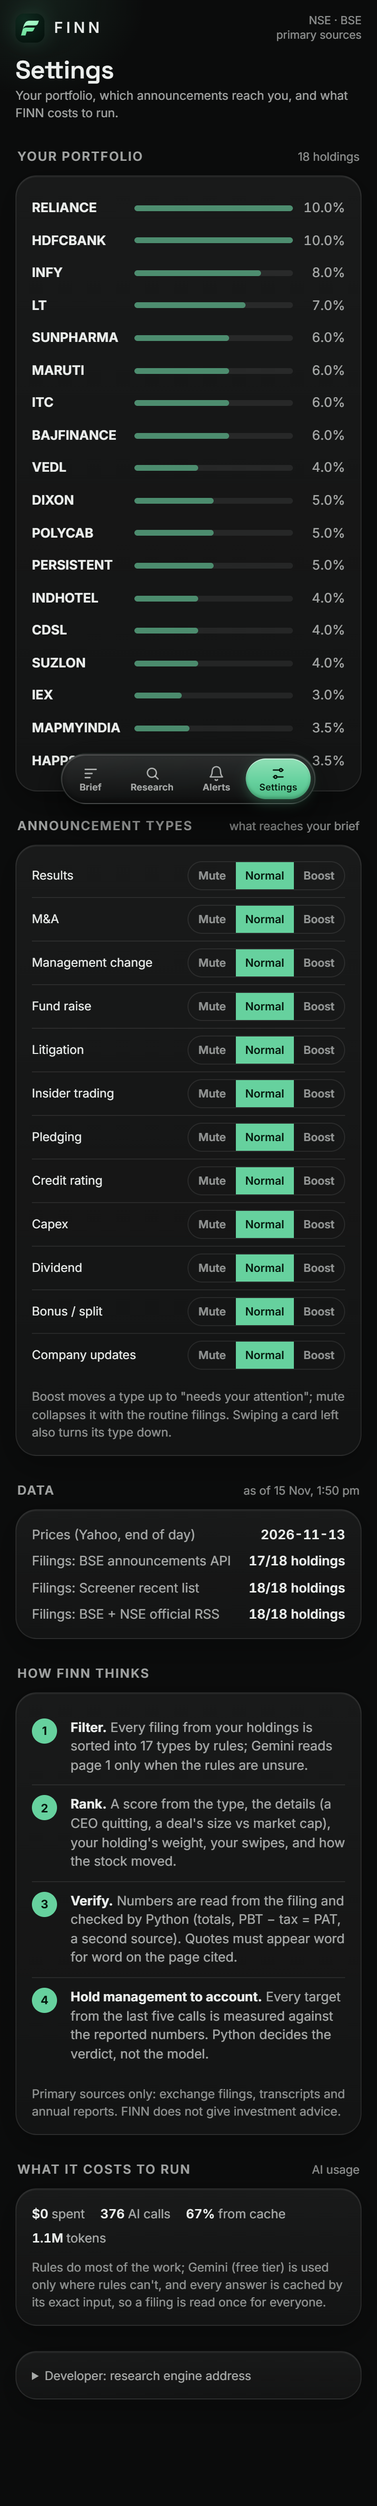
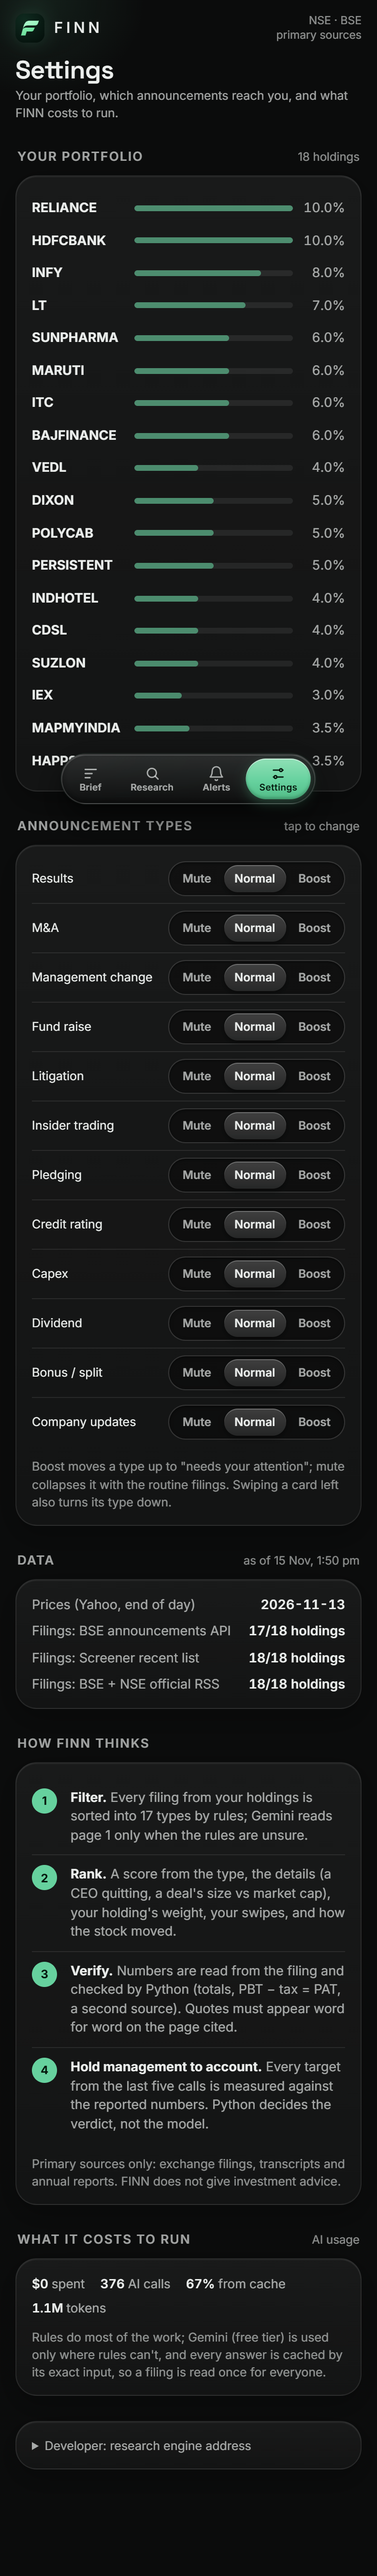
Settings: announcement types as a sliding toggle
A recessed track with a raised thumb that slides to the choice; unselected
options are readable, Boost turns mint, and the section says 'tap to change'.

Changed region(s): [[0.0308, 0.0, 0.9538, 0.9646], [0.3077, 0.3734, 0.4, 0.4045], [0.9231, 0.0, 0.9538, 0.0311]]

diff --git a/frontend/src/styles.css b/frontend/src/styles.css
@@ -319,9 +319,6 @@ h1, h2, h3 { margin: 0; font-weight: 600; }
 .sym-line { font-size: 11px; font-weight: 600; letter-spacing: .06em; color: var(--text-3); margin-bottom: 2px; }
 .type-row { display: flex; align-items: center; justify-content: space-between; gap: 10px; padding: 7px 0; border-top: 1px solid var(--line); }
 .type-row:first-child { border-top: 0; padding-top: 0; }
-.seg { display: inline-flex; flex: none; border: 1px solid var(--line); border-radius: var(--pill); overflow: hidden; }
-.seg button { height: 28px; padding: 0 10px; font-size: 11.5px; font-weight: 600; color: var(--text-3); }
-.seg button[aria-pressed="true"] { background: var(--mint); color: var(--mint-ink); }
 
 html { scroll-behavior: smooth; }
 section, .section-title { scroll-margin-top: 64px; }
@@ -366,3 +363,20 @@ button:active, .chip:active, .why-btn:active, .btn:active { transform: scale(0.9
 .ticker-chip.sm { height: 22px; padding: 0 8px; font-size: 11.5px; border-radius: 7px; }
 .who .name { overflow: visible; margin-bottom: 5px; }
 .sym-line { margin-bottom: 6px; }
+
+/* Mute / Normal / Boost: a recessed track with a raised thumb that slides to the choice */
+.seg { display: inline-flex; flex: none; gap: 2px; padding: 3px; border-radius: var(--pill);
+  background: rgba(0, 0, 0, 0.35); border: 1px solid var(--line-strong);
+  box-shadow: inset 0 1px 3px rgba(0, 0, 0, 0.5); }
+.seg button { position: relative; height: 28px; padding: 0 11px; border-radius: var(--pill);
+  font-size: 12px; font-weight: 600; color: var(--text-2); }
+.seg button:hover .seg-label { color: var(--text); }
+.seg .seg-label { position: relative; z-index: 1; }
+.seg-thumb { position: absolute; inset: 0; border-radius: var(--pill);
+  background: linear-gradient(180deg, rgba(255,255,255,0.20), rgba(255,255,255,0.10));
+  box-shadow: inset 0 1px 0 rgba(255,255,255,0.25), 0 2px 6px rgba(0,0,0,0.45); }
+.seg button[aria-pressed="true"] { color: var(--text); }
+.seg .seg-boost[aria-pressed="true"] { color: var(--mint-ink); }
+.seg .seg-boost .seg-thumb { background: linear-gradient(180deg, #8fe0b6, var(--mint)); }
+.seg .seg-mute[aria-pressed="true"] { color: var(--text-2); }
+.seg .seg-mute .seg-thumb { background: linear-gradient(180deg, rgba(255,255,255,0.10), rgba(255,255,255,0.05)); }

diff --git a/frontend/src/screens/Settings.tsx b/frontend/src/screens/Settings.tsx
@@ -1,3 +1,4 @@
+import { motion } from "framer-motion";
 import { useEffect, useState } from "react";
 import { catLabel, fmtNum, fmtWhen, Json, nice, prefs, snapshot, wakeBackend } from "../lib/data";
 
@@ -53,7 +54,7 @@ export default function Settings() {
         ))}
       </div>
 
-      <div className="section-title"><h2>Announcement types</h2><span className="meta">what reaches your brief</span></div>
+      <div className="section-title"><h2>Announcement types</h2><span className="meta">tap to change</span></div>
       <div className="glass card">
         {TYPES.map((cat) => {
           const v = tune[cat] ?? 1;
@@ -63,9 +64,12 @@ export default function Settings() {
             <div key={cat} className="type-row">
               <span className="small">{catLabel(cat)}{level === "tuned" ? <span className="faint"> · ×{v.toFixed(2)} from swipes</span> : null}</span>
               <span className="seg" role="group" aria-label={`${catLabel(cat)} alerts`}>
-                <button aria-pressed={level === "mute"} onClick={() => set(0.3)}>Mute</button>
-                <button aria-pressed={level === "normal"} onClick={() => set(1)}>Normal</button>
-                <button aria-pressed={level === "boost"} onClick={() => set(1.5)}>Boost</button>
+                {([["mute", "Mute", 0.3], ["normal", "Normal", 1], ["boost", "Boost", 1.5]] as const).map(([k, label, x]) => (
+                  <button key={k} className={`seg-${k}`} aria-pressed={level === k} onClick={() => set(x)}>
+                    {level === k && <motion.span layoutId={`seg-${cat}`} className="seg-thumb" transition={{ type: "spring", stiffness: 500, damping: 36 }} />}
+                    <span className="seg-label">{label}</span>
+                  </button>
+                ))}
               </span>
             </div>
           );
